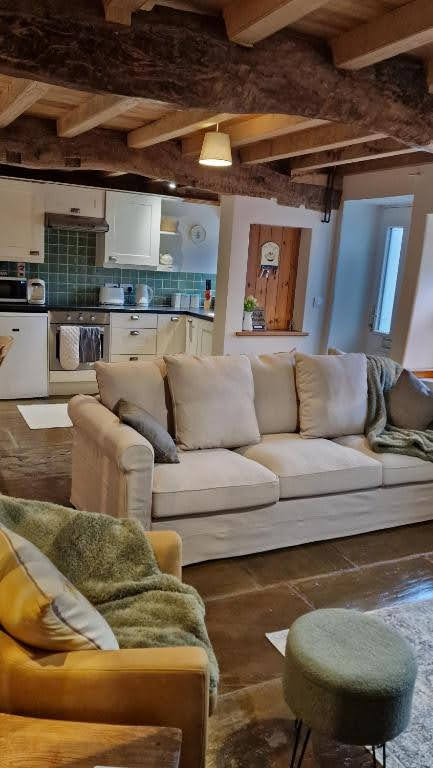
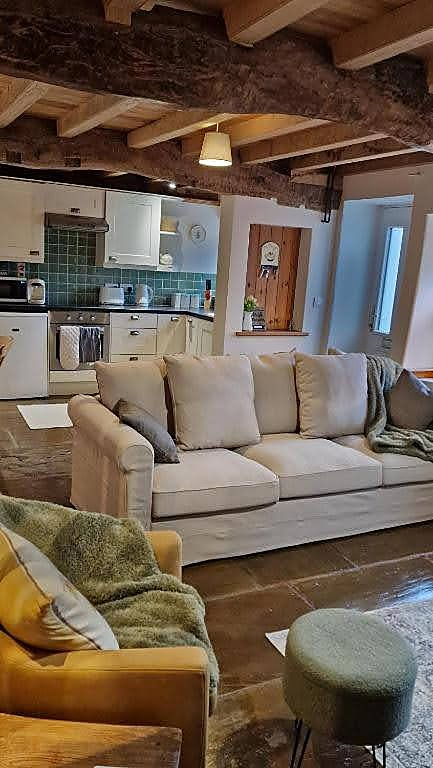
Optimize/sharpen images, add floating Book Now button

diff --git a/index.html b/index.html
@@ -869,9 +869,26 @@
     .nav-links { display: none; }
     .bp-row { grid-template-columns: 1fr; }
   }
+  .float-book {
+    position: fixed; right: 22px; bottom: 22px; z-index: 50;
+    background: var(--sage); color: var(--cream); text-decoration: none;
+    font-family: 'DM Sans', sans-serif; font-size: 0.82rem; letter-spacing: 0.08em;
+    text-transform: uppercase; padding: 0.85rem 1.4rem; border-radius: 999px;
+    box-shadow: 0 6px 20px rgba(0,0,0,0.25);
+    display: flex; align-items: center; gap: 0.5rem;
+    opacity: 0; transform: translateY(12px) scale(0.96); pointer-events: none;
+    transition: opacity 0.25s ease, transform 0.25s ease, background 0.2s ease;
+  }
+  .float-book.visible { opacity: 1; transform: translateY(0) scale(1); pointer-events: auto; }
+  .float-book:hover { background: var(--sage-light); }
+  @media (max-width: 640px) {
+    .float-book { right: 14px; bottom: 14px; padding: 0.75rem 1.15rem; font-size: 0.76rem; }
+  }
 </style>
 </head>
 <body>
+
+<a href="#availability" class="float-book" id="floatBookBtn">&#128197; Book Now</a>
 
 <!-- NAV -->
 <nav>
@@ -1734,6 +1751,24 @@
         // video stays hidden, snow image (hero background) shows permanently
       }, 2000);
     });
+  })();
+
+  // ─── FLOATING BOOK NOW BUTTON ───────────────────────────────────
+  (() => {
+    const btn = document.getElementById('floatBookBtn');
+    const hero = document.getElementById('hero');
+    const avail = document.getElementById('availability');
+    if (!btn || !hero || !avail) return;
+    let pastHero = false, onAvailability = false;
+    const update = () => { btn.classList.toggle('visible', pastHero && !onAvailability); };
+    new IntersectionObserver((entries) => {
+      entries.forEach(e => { if (e.target === hero) pastHero = !e.isIntersecting; });
+      update();
+    }, { threshold: 0 }).observe(hero);
+    new IntersectionObserver((entries) => {
+      entries.forEach(e => { if (e.target === avail) onAvailability = e.isIntersecting; });
+      update();
+    }, { threshold: 0.15 }).observe(avail);
   })();
 
   // ─── NAV ACTIVE ─────────────────────────────────────────────────
